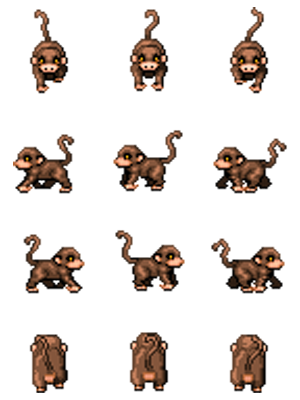
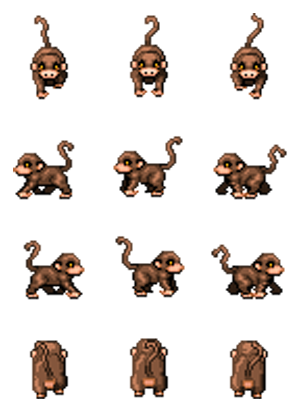
Xinzaoderen - Phase 2: dimensional creature

diff --git a/gamepalclient/src/draw.js b/gamepalclient/src/draw.js
@@ -561,57 +561,58 @@ export const drawMethods = {
         }
       }
       // Draw head
-      var headUpLeftPoint = {x: (x - 0.5) * characterBlockSize + canvasInfo.deltaWidth, y: (y - 1) * characterBlockSize + canvasInfo.deltaHeight}
-      var headDownRightPoint = {x: (x + 0.5) * characterBlockSize + canvasInfo.deltaWidth, y: (y + 0) * characterBlockSize + canvasInfo.deltaHeight}
+      var areaWidth = 1
+      var areaHeight = 1
+      var headAreaAltitude = 0.85
+      var headUpLeftPoint = {x: (x - areaWidth / 2) * characterBlockSize + canvasInfo.deltaWidth, y: (y - headAreaAltitude - areaHeight / 2) * characterBlockSize + canvasInfo.deltaHeight}
+      var headDownRightPoint = {x: (x + areaWidth / 2) * characterBlockSize + canvasInfo.deltaWidth, y: (y - headAreaAltitude + areaHeight / 2) * characterBlockSize + canvasInfo.deltaHeight}
       drawBlockMethods.drawHead(canvasInfo, staticData, images, context, headUpLeftPoint, headDownRightPoint, offsetY, playerInfoTemp)
+      var positionX = x - 0.5
+      var positionY = y - 0.92
       // Draw body (down)
-      // var legsUpLeftPoint = {x: (x - 0.5) * characterBlockSize + canvasInfo.deltaWidth, y: (y - 1) * characterBlockSize + canvasInfo.deltaHeight}
-      // var legsUpLeftPoint = {x: (x + 0.5) * characterBlockSize + canvasInfo.deltaWidth, y: y * characterBlockSize + canvasInfo.deltaHeight}
-      // drawBlockMethods.drawLegs(canvasInfo, staticData, images, context, legsUpLeftPoint, legsDownRightPoint, offsetX, offsetY, playerInfoTemp)
-
       if (!isSwimming) {
         context.drawImage(images.bodiesImage[playerInfoTemp.skinColor - 1], offsetX * canvasInfo.imageBlockSize, (constants.WAIST_BODY_RATIO + offsetY) * canvasInfo.imageBlockSize, canvasInfo.imageBlockSize, (1 - constants.WAIST_BODY_RATIO) * canvasInfo.imageBlockSize, 
-        x * canvasInfo.blockSize + canvasInfo.deltaWidth, (constants.WAIST_BODY_RATIO + y) * canvasInfo.blockSize + canvasInfo.deltaHeight, canvasInfo.blockSize, (1 - constants.WAIST_BODY_RATIO) * canvasInfo.blockSize)
+        positionX * canvasInfo.blockSize + canvasInfo.deltaWidth, (constants.WAIST_BODY_RATIO + positionY) * canvasInfo.blockSize + canvasInfo.deltaHeight, canvasInfo.blockSize, (1 - constants.WAIST_BODY_RATIO) * canvasInfo.blockSize)
       }
       // Draw body (up)
       context.drawImage(images.bodiesImage[playerInfoTemp.skinColor - 1], upOffsetX * canvasInfo.imageBlockSize, (constants.HEAD_BODY_RATIO + offsetY) * canvasInfo.imageBlockSize, canvasInfo.imageBlockSize, (constants.WAIST_BODY_RATIO - constants.HEAD_BODY_RATIO) * canvasInfo.imageBlockSize, 
-      x * canvasInfo.blockSize + canvasInfo.deltaWidth, (constants.HEAD_BODY_RATIO + y) * canvasInfo.blockSize + canvasInfo.deltaHeight, canvasInfo.blockSize, (constants.WAIST_BODY_RATIO - constants.HEAD_BODY_RATIO) * canvasInfo.blockSize)
+      positionX * canvasInfo.blockSize + canvasInfo.deltaWidth, (constants.HEAD_BODY_RATIO + positionY) * canvasInfo.blockSize + canvasInfo.deltaHeight, canvasInfo.blockSize, (constants.WAIST_BODY_RATIO - constants.HEAD_BODY_RATIO) * canvasInfo.blockSize)
       // Draw underwear
-      this.drawOutfits(context, canvasInfo.tempCanvas, images.outfitsImage, constants.ITEM_NO_OUTFIT_UNDERWEAR, 0, upOffsetX, offsetY, x, y, canvasInfo.deltaWidth, canvasInfo.deltaHeight, canvasInfo.imageBlockSize, canvasInfo.blockSize)
+      this.drawOutfits(context, canvasInfo.tempCanvas, images.outfitsImage, constants.ITEM_NO_OUTFIT_UNDERWEAR, 0, upOffsetX, offsetY, positionX, positionY, canvasInfo.deltaWidth, canvasInfo.deltaHeight, canvasInfo.imageBlockSize, canvasInfo.blockSize)
       if (!isSwimming) {
-        this.drawOutfits(context, canvasInfo.tempCanvas, images.outfitsImage, constants.ITEM_NO_OUTFIT_UNDERWEAR, 1, upOffsetX, offsetY, x, y, canvasInfo.deltaWidth, canvasInfo.deltaHeight, canvasInfo.imageBlockSize, canvasInfo.blockSize)
+        this.drawOutfits(context, canvasInfo.tempCanvas, images.outfitsImage, constants.ITEM_NO_OUTFIT_UNDERWEAR, 1, upOffsetX, offsetY, positionX, positionY, canvasInfo.deltaWidth, canvasInfo.deltaHeight, canvasInfo.imageBlockSize, canvasInfo.blockSize)
       }
       if (utilMethods.isDef(playerInfoTemp.outfits) && playerInfoTemp.outfits.length > 0) {
         for (var outfitIndex in playerInfoTemp.outfits) {
           if (!isSwimming) {
             // Draw pants
-            this.drawOutfits(context, canvasInfo.tempCanvas, images.outfitsImage, playerInfoTemp.outfits[outfitIndex], 1, offsetX, offsetY, x, y, canvasInfo.deltaWidth, canvasInfo.deltaHeight, canvasInfo.imageBlockSize, canvasInfo.blockSize)
+            this.drawOutfits(context, canvasInfo.tempCanvas, images.outfitsImage, playerInfoTemp.outfits[outfitIndex], 1, offsetX, offsetY, positionX, positionY, canvasInfo.deltaWidth, canvasInfo.deltaHeight, canvasInfo.imageBlockSize, canvasInfo.blockSize)
             // Draw shoes
-            this.drawOutfits(context, canvasInfo.tempCanvas, images.outfitsImage, playerInfoTemp.outfits[outfitIndex], 2, offsetX, offsetY, x, y, canvasInfo.deltaWidth, canvasInfo.deltaHeight, canvasInfo.imageBlockSize, canvasInfo.blockSize)
+            this.drawOutfits(context, canvasInfo.tempCanvas, images.outfitsImage, playerInfoTemp.outfits[outfitIndex], 2, offsetX, offsetY, positionX, positionY, canvasInfo.deltaWidth, canvasInfo.deltaHeight, canvasInfo.imageBlockSize, canvasInfo.blockSize)
           }
           // Draw clothes
-          this.drawOutfits(context, canvasInfo.tempCanvas, images.outfitsImage, playerInfoTemp.outfits[outfitIndex], 0, upOffsetX, offsetY, x, y, canvasInfo.deltaWidth, canvasInfo.deltaHeight, canvasInfo.imageBlockSize, canvasInfo.blockSize)
+          this.drawOutfits(context, canvasInfo.tempCanvas, images.outfitsImage, playerInfoTemp.outfits[outfitIndex], 0, upOffsetX, offsetY, positionX, positionY, canvasInfo.deltaWidth, canvasInfo.deltaHeight, canvasInfo.imageBlockSize, canvasInfo.blockSize)
         }
       }
       // Draw top tool
       if (offsetY !== 1 && offsetY !== 3) {
         for (toolIndex in playerInfoTemp.tools) {
-          drawBlockMethods.drawTool(canvasInfo, staticData, images, userInfo, x, y, playerInfoTemp.tools[toolIndex], offsetY)
+          drawBlockMethods.drawTool(canvasInfo, staticData, images, userInfo, positionX, positionY, playerInfoTemp.tools[toolIndex], offsetY)
         }
       }
       // Draw top arm
       context.drawImage(images.armsImage[playerInfoTemp.skinColor - 1], upOffsetX * canvasInfo.imageBlockSize, offsetY * canvasInfo.imageBlockSize, canvasInfo.imageBlockSize, canvasInfo.imageBlockSize, 
-      x * canvasInfo.blockSize + canvasInfo.deltaWidth, y * canvasInfo.blockSize + canvasInfo.deltaHeight, canvasInfo.blockSize, canvasInfo.blockSize)
+        positionX * canvasInfo.blockSize + canvasInfo.deltaWidth, positionY * canvasInfo.blockSize + canvasInfo.deltaHeight, canvasInfo.blockSize, canvasInfo.blockSize)
       // Draw bottom sleeve
       if (utilMethods.isDef(playerInfoTemp.outfits) && playerInfoTemp.outfits.length > 0) {
         for (outfitIndex in playerInfoTemp.outfits) {
-          this.drawOutfits(context, canvasInfo.tempCanvas, images.outfitsImage, playerInfoTemp.outfits[outfitIndex], 4, upOffsetX, offsetY, x, y, canvasInfo.deltaWidth, canvasInfo.deltaHeight, canvasInfo.imageBlockSize, canvasInfo.blockSize)
+          this.drawOutfits(context, canvasInfo.tempCanvas, images.outfitsImage, playerInfoTemp.outfits[outfitIndex], 4, upOffsetX, offsetY, positionX, positionY, canvasInfo.deltaWidth, canvasInfo.deltaHeight, canvasInfo.imageBlockSize, canvasInfo.blockSize)
         }
       }
       // Draw top sleeve
       if (utilMethods.isDef(playerInfoTemp.outfits) && playerInfoTemp.outfits.length > 0) {
         for (outfitIndex in playerInfoTemp.outfits) {
-          this.drawOutfits(context, canvasInfo.tempCanvas, images.outfitsImage, playerInfoTemp.outfits[outfitIndex], 3, upOffsetX, offsetY, x, y, canvasInfo.deltaWidth, canvasInfo.deltaHeight, canvasInfo.imageBlockSize, canvasInfo.blockSize)
+          this.drawOutfits(context, canvasInfo.tempCanvas, images.outfitsImage, playerInfoTemp.outfits[outfitIndex], 3, upOffsetX, offsetY, positionX, positionY, canvasInfo.deltaWidth, canvasInfo.deltaHeight, canvasInfo.imageBlockSize, canvasInfo.blockSize)
         }
       }
     } else if (playerInfoTemp.creatureType == 2) {
@@ -626,7 +627,7 @@ export const drawMethods = {
     }
     if (playerInfoTemp.playerType == constants.PLAYER_TYPE_HUMAN) {
       // Show name
-      this.drawAvatar(canvasInfo, staticData, images, userInfo, (x + 0.5) * canvasInfo.blockSize - 0.4 * constants.DEFAULT_BLOCK_SIZE + canvasInfo.deltaWidth, 
+      this.drawAvatar(canvasInfo, staticData, images, userInfo, x * canvasInfo.blockSize - 0.4 * constants.DEFAULT_BLOCK_SIZE + canvasInfo.deltaWidth, 
       (y - constants.STATUS_DISPLAY_DISTANCE) * canvasInfo.blockSize - 0.15 * constants.DEFAULT_BLOCK_SIZE + canvasInfo.deltaHeight,
       constants.DEFAULT_BLOCK_SIZE * 0.2, avatarIndex, playerInfoTemp.nameColor)
       // if (userCode != playerInfoTemp.id) {
@@ -648,7 +649,7 @@ export const drawMethods = {
       //   context.restore()
       // }
       if (utilMethods.isDef(playerInfoTemp.nickname)) {
-        this.printText(context, playerInfoTemp.nickname, (x + 0.5) * canvasInfo.blockSize + canvasInfo.deltaWidth, 
+        this.printText(context, playerInfoTemp.nickname, x * canvasInfo.blockSize + canvasInfo.deltaWidth, 
         (y - constants.STATUS_DISPLAY_DISTANCE) * canvasInfo.blockSize + canvasInfo.deltaHeight,
         constants.DEFAULT_BLOCK_SIZE * 0.5, 
         'center')

diff --git a/gamepalclient/src/drawBlock.js b/gamepalclient/src/drawBlock.js
@@ -540,14 +540,14 @@ export const drawBlockMethods = {
         break
       case 1:
         context.scale(-1, 1)
-        context.translate(-((x + 0.5) * canvasInfo.blockSize + canvasInfo.deltaWidth), (y + 0.6) * canvasInfo.blockSize + canvasInfo.deltaHeight)
+        context.translate(-((x) * canvasInfo.blockSize + canvasInfo.deltaWidth), (y - 0.32) * canvasInfo.blockSize + canvasInfo.deltaHeight)
         break
       case 2:
         context.translate((x + 0.5) * canvasInfo.blockSize + canvasInfo.deltaWidth, (y + 0.6) * canvasInfo.blockSize + canvasInfo.deltaHeight)
         break
       case 3:
         context.scale(-1, 1)
-        context.translate(-((x + 0.65) * canvasInfo.blockSize + canvasInfo.deltaWidth), (y + 0.6) * canvasInfo.blockSize + canvasInfo.deltaHeight)
+        context.translate(-((x + 0.1) * canvasInfo.blockSize + canvasInfo.deltaWidth), (y - 0.3) * canvasInfo.blockSize + canvasInfo.deltaHeight)
         context.rotate(-Math.PI / 4)
         break
     }
@@ -599,38 +599,17 @@ export const drawBlockMethods = {
     // 头型
     var width = downRightPoint.x - upLeftPoint.x
     var height = downRightPoint.y - upLeftPoint.y
-    var centerHeadPoint = {x: upLeftPoint.x + width * 0.5, y: upLeftPoint.y + height * 0.15}
-    var upLeftHeadPoint = {x: centerHeadPoint.x - width * 0.1 * (1 + (coefs[2] - 0.5)), y: centerHeadPoint.y - height * 0.12 * (1 + (coefs[0] - 0.5))}
-    var DownLeftHeadPoint = {x: centerHeadPoint.x - width * 0.1 * (1 + (coefs[3] - 0.5)), y: centerHeadPoint.y + height * 0.12 * (1 + (coefs[1] - 0.5))}
-    var DownRightHeadPoint = {x: centerHeadPoint.x + width * 0.1 * (1 + (coefs[3] - 0.5)), y: centerHeadPoint.y + height * 0.12 * (1 + (coefs[1] - 0.5))}
-    var UpRightHeadPoint = {x: centerHeadPoint.x + width * 0.1 * (1 + (coefs[2] - 0.5)), y: centerHeadPoint.y - height * 0.12 * (1 + (coefs[0] - 0.5))}
+    var centerHeadPoint = {x: upLeftPoint.x + width / 2, y: upLeftPoint.y + height / 2}
+    var upLeftHeadPoint = {x: centerHeadPoint.x - width * 0.1 * (1 + (coefs[2] - 0.5)), y: centerHeadPoint.y - height * 0.2 * (0.6 + (coefs[0] - 0.5))}
+    var DownLeftHeadPoint = {x: centerHeadPoint.x - width * 0.1 * (1 + (coefs[3] - 0.5)), y: centerHeadPoint.y + height * 0.3 * (1 + (coefs[1] - 0.5))}
+    var DownRightHeadPoint = {x: centerHeadPoint.x + width * 0.1 * (1 + (coefs[3] - 0.5)), y: centerHeadPoint.y + height * 0.3 * (1 + (coefs[1] - 0.5))}
+    var upRightHeadPoint = {x: centerHeadPoint.x + width * 0.1 * (1 + (coefs[2] - 0.5)), y: centerHeadPoint.y - height * 0.2 * (0.6 + (coefs[0] - 0.5))}
     var faceEdgeCoef = offsetY === 0 || offsetY === 4 ? coefs[5] : coefs[9]
     var leftControlPoint = {x: upLeftHeadPoint.x - width * (faceEdgeCoef - 0.5), y: centerHeadPoint.y}
     var downControlPoint = {x: centerHeadPoint.x, y: DownLeftHeadPoint.y + height * (coefs[6] - 0.5)}
-    var rightControlPoint = {x: UpRightHeadPoint.x + width * (faceEdgeCoef - 0.5), y: centerHeadPoint.y}
+    var rightControlPoint = {x: upRightHeadPoint.x + width * (faceEdgeCoef - 0.5), y: centerHeadPoint.y}
     var upControlPoint = {x: centerHeadPoint.x, y: upLeftHeadPoint.y - height * (coefs[4] - 0.5)}
-    switch (Number(playerInfoTemp.skinColor)) { // Number() must be included 24/04/30
-      case 1:
-        context.strokeStyle = 'rgba(169, 100, 55, 1)'
-        context.fillStyle = 'rgba(252, 224, 206, 1)'
-        break
-      case 2:
-        context.strokeStyle = 'rgba(150, 75, 31, 1)'
-        context.fillStyle = 'rgba(249, 193, 157, 1)'
-        break
-      case 3:
-        context.strokeStyle = 'rgba(153, 91, 35, 1)'
-        context.fillStyle = 'rgba(233, 202, 175, 1)'
-        break
-      case 4:
-        context.strokeStyle = 'rgba(80, 21, 0, 1)'
-        context.fillStyle = 'rgba(186, 137, 97, 1)'
-        break
-      case 5:
-        context.strokeStyle = 'rgba(64, 31, 14, 1)'
-        context.fillStyle = 'rgba(119, 85, 52, 1)'
-        break
-    }
+    this.checkSkinColor(context, Number(playerInfoTemp.skinColor))
     var neckWidth = width * 0.10
     var neckHeight = height * 0.2
     context.beginPath()
@@ -641,13 +620,13 @@ export const drawBlockMethods = {
     context.moveTo(upLeftHeadPoint.x, upLeftHeadPoint.y)
     context.quadraticCurveTo(leftControlPoint.x, leftControlPoint.y, DownLeftHeadPoint.x, DownLeftHeadPoint.y)
     context.quadraticCurveTo(downControlPoint.x, downControlPoint.y, DownRightHeadPoint.x, DownRightHeadPoint.y)
-    context.quadraticCurveTo(rightControlPoint.x, rightControlPoint.y, UpRightHeadPoint.x, UpRightHeadPoint.y)
+    context.quadraticCurveTo(rightControlPoint.x, rightControlPoint.y, upRightHeadPoint.x, upRightHeadPoint.y)
     context.quadraticCurveTo(upControlPoint.x, upControlPoint.y, upLeftHeadPoint.x, upLeftHeadPoint.y)
     context.closePath()
     context.fill()
     context.stroke()
     // 眉毛眼睛、鼻子、嘴巴、头发、帽子
-    var eyesY = centerHeadPoint.y - canvasInfo.blockSize / 8 - height * 0.12 * (coefs[7] - 0.5)
+    var eyesY = centerHeadPoint.y - height * 0.2 * (coefs[7] - 0.1)
     // Blinking eyes
     if (timestamp % 4000 >= 10) {
       switch(offsetY) {
@@ -669,13 +648,13 @@ export const drawBlockMethods = {
     }
     if (playerInfoTemp.hairColor !== 0) {
       context.drawImage(images.hairstylesImage[playerInfoTemp.hairColor - 1], (playerInfoTemp.hairstyle - 1) * canvasInfo.imageBlockSize, offsetY * canvasInfo.imageBlockSize, canvasInfo.imageBlockSize, canvasInfo.imageBlockSize, 
-      upLeftPoint.x, upLeftPoint.y - canvasInfo.blockSize * 0.38 - height * 0.12 * (coefs[0] - 0.5), canvasInfo.blockSize, canvasInfo.blockSize)
+      centerHeadPoint.x - canvasInfo.blockSize / 2, centerHeadPoint.y - canvasInfo.blockSize / 2 - height * 0.2 * (0.1 + (coefs[0] - 0.5)), canvasInfo.blockSize, canvasInfo.blockSize)
     }
   },
   convertFaceCoefsToCoefs (faceCoefs) {
     var coefs = []
-    coefs[0] = 0.5 + (faceCoefs[0] / 100 - 0.5) * 0.5
-    coefs[1] = 0.4 + (faceCoefs[1] / 100 - 0.5) * 0.4
+    coefs[0] = 0.3 + (faceCoefs[0] / 100 - 0.5) * 0.1
+    coefs[1] = 0.1 + (faceCoefs[1] / 100 - 0.5) * 0.1
     coefs[2] = 0.6 + (faceCoefs[2] / 100 - 0.5) * 0.2
     coefs[3] = 0.5 + (faceCoefs[3] / 100 - 0.5) * 0.5
     coefs[4] = 0.6 + (faceCoefs[4] / 100 - 0.5) * 0.1
@@ -685,20 +664,29 @@ export const drawBlockMethods = {
     coefs[8] = 0.6 + (faceCoefs[8] / 100 - 0.5) * 0.2
     coefs[9] = 0.55 + (faceCoefs[9] / 100 - 0.5) * 0.05
     return coefs
-  // },
-  // drawLegs (canvasInfo, staticData, images, context, upLeftPoint, downRightPoint, offsetX, offsetY, playerInfoTemp) {
-  //   context.beginPath()
-  //   context.fillRect(centerHeadPoint.x - neckWidth / 2, DownLeftHeadPoint.y, neckWidth, neckHeight)
-  //   context.closePath()
-  //   context.fill()
-  //   context.beginPath()
-  //   context.moveTo(upLeftHeadPoint.x, upLeftHeadPoint.y)
-  //   context.quadraticCurveTo(leftControlPoint.x, leftControlPoint.y, DownLeftHeadPoint.x, DownLeftHeadPoint.y)
-  //   context.quadraticCurveTo(downControlPoint.x, downControlPoint.y, DownRightHeadPoint.x, DownRightHeadPoint.y)
-  //   context.quadraticCurveTo(rightControlPoint.x, rightControlPoint.y, UpRightHeadPoint.x, UpRightHeadPoint.y)
-  //   context.quadraticCurveTo(upControlPoint.x, upControlPoint.y, upLeftHeadPoint.x, upLeftHeadPoint.y)
-  //   context.closePath()
-  //   context.fill()
-  //   context.stroke()
+  },
+  checkSkinColor (context, skinColor) {
+    switch (skinColor) {
+      case 1:
+        context.strokeStyle = 'rgba(169, 100, 55, 1)'
+        context.fillStyle = 'rgba(252, 224, 206, 1)'
+        break
+      case 2:
+        context.strokeStyle = 'rgba(150, 75, 31, 1)'
+        context.fillStyle = 'rgba(249, 193, 157, 1)'
+        break
+      case 3:
+        context.strokeStyle = 'rgba(153, 91, 35, 1)'
+        context.fillStyle = 'rgba(233, 202, 175, 1)'
+        break
+      case 4:
+        context.strokeStyle = 'rgba(80, 21, 0, 1)'
+        context.fillStyle = 'rgba(186, 137, 97, 1)'
+        break
+      case 5:
+        context.strokeStyle = 'rgba(64, 31, 14, 1)'
+        context.fillStyle = 'rgba(119, 85, 52, 1)'
+        break
+    }
   }
 }

diff --git a/gamepalclient/src/constants.js b/gamepalclient/src/constants.js
@@ -56,7 +56,7 @@ export const constants = {
   MOVEMENT_STATE_CHAT_DISPLAY: 12,
   HEAD_BODY_RATIO: 0.32,
   WAIST_BODY_RATIO: 0.6,
-  STATUS_DISPLAY_DISTANCE: 0.15,
+  STATUS_DISPLAY_DISTANCE: 1.15,
   MIN_DISPLAY_DISTANCE_BLOCK_PLAYER: 2,
 
   MOVEMENT_MODE_DEFAULT: 0,
